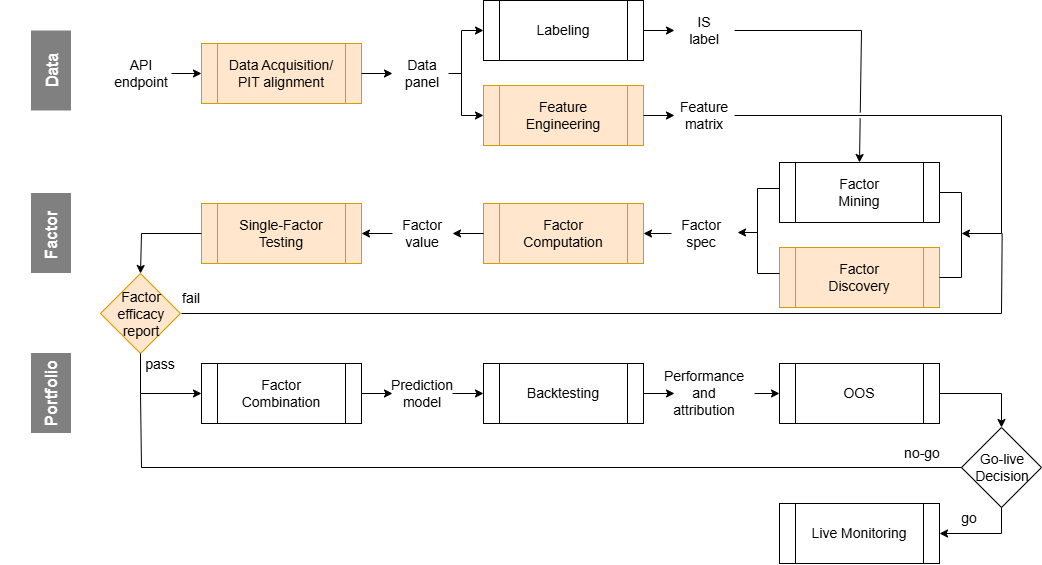
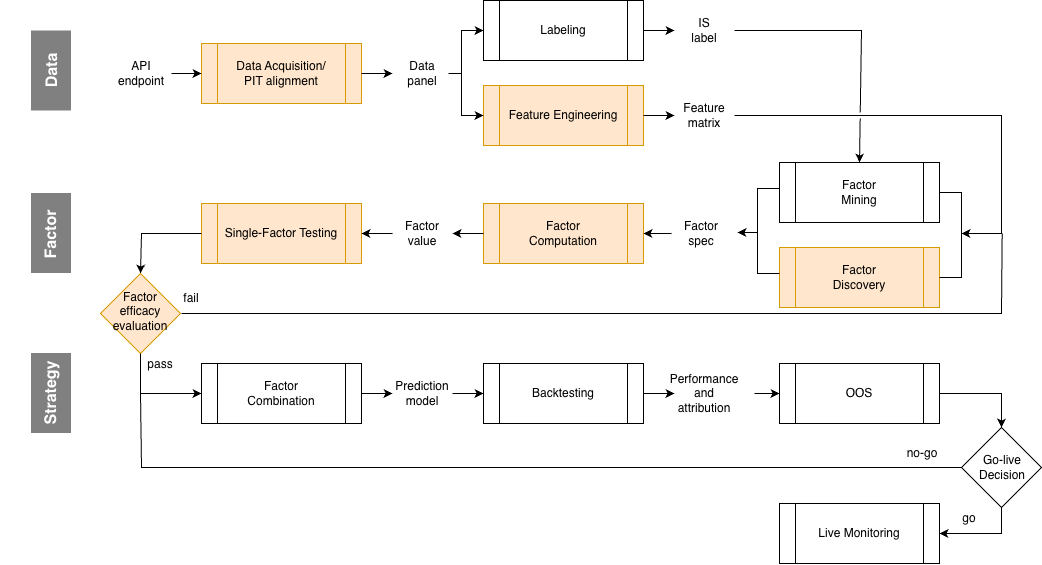
Update pipeline diagrams, rename Portfolio layer to Strategy, and refresh lab overviews

diff --git a/README.md b/README.md
@@ -1,23 +1,26 @@
-# Factor Research Process 
+# 因子研究流程 
 
-![Factor Research Process](img/factor-research-process-all.png)
-
-## Layer
+![Factor Research Process](img/factor-research-process.png)
 
 | Layer | Responsibility |
 |---|---|
-| **Data** | 產生乾淨、時序對齊、無 look-ahead bias 的 panel | 
-| **Factor** | 產生因子，並驗證單一因子的預測力 | 
-| **Portfolio** | 經由 backtesting、Out of Sample (OOS) 測試，把訊號轉成可執行，且扣除成本後仍成立的策略 | 
+| **Data** | 搜集資料，整理成乾淨、時序對齊、無 look-ahead bias 的 panel | 
+| **Factor** | 挖掘、產生因子，並驗證單一因子的預測力 | 
+| **Strategy** | 把因子組合成策略層級訊號，經由 backtesting、Out of Sample (OOS) 測試，判斷與解釋策略績效 | 
 
 
 ## Overview
 
-依照因子研究流程，試做以下 Lab 驗證：
+依照因子研究流程，執行相關 Lab 驗證：
+
+Taiwanese stock market
+- ⭐ [Taiwan 5 Factor Lab](tw-5-factor-lab/): 使用台股研究 5 個領域因子
+
+(Archived) Crypto: LLM-based 則時策略 
 - [LLM Factor Discovery Lab](llm-factor-discovery-lab/): 使用 LLM 做因子假設與新聞特徵抽取
 - [Cross-Sectional Crypto Factor Research Lab](cross-sectional-crypto-factor-research-lab/): 10 種大市值加密貨幣的三因子橫截面研究
 
----
+
 
 ## Layer 1 — Data
 
@@ -74,7 +77,6 @@
 **Output**
 - `Feature matrix`: key 為 `(timestamp, asset)` 的特徵表
 
----
 
 ## Layer 2 — Factor
 
@@ -145,9 +147,7 @@
 - `Factor Efficacy Report`: 每因子的 IC / IR / spread / CI 統計表
 
 
----
-
-## Layer 3 — Portfolio
+## Layer 3 — Strategy
 
 ### 3.1 Factor Combination
 

diff --git a/llm-factor-discovery-lab/README.md b/llm-factor-discovery-lab/README.md
@@ -2,8 +2,7 @@
 
 ## 1. Project Overview
 
-專案目標在建立並驗證一套 LLM-based 的因子研究機制，研究價值:
-
+專案目標在建立一套 LLM-based 的因子研究機制:
 - 生成: 由 LLM 發想潛在因子，並加入行為經濟學領域拓展維度。每個因子在探勘階段就寫上數值門檻的失敗條件，並在後續執行驗證。
 - 抽取: LLM 產出傳統 classifier 做不到的結構化特徵抽取。例如: 法規維度拆解、實體影響加權、新穎度加權等。
 - 驗證: 事前已算出樣本數的偵測門檻，每個因子需要多少觀測才能被證偽，成為可驗算的數字。礙於資料樣本數限制，本專案難以證明典型因子之有效性。後續並無有效因子結果是預測中的。
@@ -58,8 +57,8 @@
 
 本專案研究的 IC 信賴區間又寬又含 0，無法有效識別因子是屬於「完全無效」還是「典型好因子」。同時，單一資產導致 IC 為時序排名，而不是業界常看到的橫截面 (cross-sectional) 資產定義。未來改善:
 
-- 增加單期橫截面樣本數，幣數
-- 增加樣本期數， rebalance 次數
+- 增加單期橫截面樣本數: 幣數，提升 IC 統計顯著性。
+- 增加樣本期數: rebalance 次數，提升策略統計顯著性。
 - `sentiment` 的欄位設計同時包含了語氣 `positive` 以及 市場方向判斷 `bearish` 概念，一致性過高。未來考慮拆開欄位。 
 
 

diff --git a/cross-sectional-crypto-factor-research-lab/01_single-factor-testing.md b/cross-sectional-crypto-factor-research-lab/01_single-factor-testing.md
@@ -1,11 +1,13 @@
 # Single Factor Testing
 
-## Goal (WIP)
+## Overview
 
+以 8-10 個 crypto 為橫截面，測試三個金融原理上維度不同的因子：MOM（動能）、IVOL（微結構）、AMIHUD（流動性）。樣本為 2020-01 → 2026-07 共 78 期月頻對齊資料，做單因子測試 (Rank IC、t 值、IR、rolling 6M IC、tercile spread)。
 
+**Conclusion**
 
-## Objective (WIP)
-
+- **三個因子皆無統計顯著的預測力**：IC 信賴區間全部包含 0，|t| 皆 < 1.6，但三者的失效型態不同。
+- MOM、AMIHUD 進入下一階段因子合成；IVOL 停止。
 
 ## Factor Discovery
 

diff --git a/cross-sectional-crypto-factor-research-lab/README.md b/cross-sectional-crypto-factor-research-lab/README.md
@@ -6,7 +6,7 @@
 
 ## 2. Pipeline
 
-[cross-sectional-crypto-factor-research-lab]
+![cross-sectional-crypto-factor-research-lab](img/cross-sectional-crypto-factor-research.png)
 
 - **Data Acquisition & Alignment**: 4H bars 轉換為 point-in-time 面板資料。
 - **Single-Factor Testing**: Rank IC, IC IR, Tercile Spread, Rolling 6-month IC, 多變量覆蓋回歸 (multivariate spanning regression)

diff --git a/tw-5-factor-lab/README.md b/tw-5-factor-lab/README.md
@@ -20,7 +20,9 @@
 | Sharpe | 1.30 | 1.53 | 1.49 | 1.53 | 0.86 | 1.13 |
 | 最大回撤 | −29.5% | −29.3% | −26.1% | −25.6% | −32.4% | −29.6% |
 
-## 研究設計
+## Pipeline 設計
+
+![TW 5 Factor Lab](img/tw-5-factor-lab.png)
 
 | 項目 | 設定 |
 |---|---|
